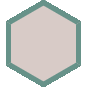
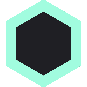
Add files via upload

diff --git a/index.html b/index.html
@@ -8,6 +8,8 @@
     <meta name="author" content="Keith Taylor">
     <link rel="canonical" href="https://lanatheprotogen.github.io/"/>
     <link rel="icon" href="./static/assets/LanaIcon.png"/>
+    <link rel="preconnect" href="https://fonts.gstatic.com">
+    <link href="https://fonts.googleapis.com/css2?family=VT323&display=swap" rel="stylesheet">
     
     <title>Project {'Lana'}</title>
     <!-- Bootstrap core CSS // REQUIRED // -->
@@ -20,7 +22,7 @@
     
 <div class="container-fluid">
   <div class="row">
-    <nav id="sidebarMenu" class="col-md-auto col-lg-auto d-md-block sidebar collapse" style="background-color: #071e22;">
+    <nav id="sidebarMenu" class="col-md-auto col-lg-auto d-md-block sidebar collapse" style="background-color: #1F1F24;">
       <div class="position-sticky pt-3">
         <h6 class="sidebar-heading d-flex justify-content-between align-items-center px-1 mt-2 mb-1 text-muted">
           <span>Navigation</span>
@@ -101,14 +103,14 @@
   </div>
 </div>
 
-<section class="py-5 px-5 text-center container-fluid" style="background: linear-gradient(0.65turn, #071e22, #1d7874, #678289);">
+<section class="py-5 px-5 text-center container-fluid" style="background: linear-gradient(0.65turn, #D8CBC7, #A1FCDF, #607B7D);">
   <div class="row py-lg-5">
     <div class="col-1 col-md-3 col-lg-1">
       <!-- I don't know why, but i need to do this terribleness for the page to work correctly >w<-->
     </div>
     <div class="col-lg-6 col-md-8 mx-auto">
-      <h1 class="fw-light" style="color:#f7f9f9;">Project {'Lana'}</h1>
-      <p class="lead" style="color: #d8cbc7;">Welcome to Project Lana's homepage.</p>
+      <h1 class="fw-light-lg" style="font-family: 'VT323', monospace; font-size: 65px;">Project {'Lana'}<span class="blink">_</span></h1>
+      <p class="lead">Welcome to Project Lana's homepage.</p>
     </div>
   </div>
 </section>
@@ -143,7 +145,7 @@
 
 <div class="hexagon-wrapper">
   <h1 class="text-uppercase fixed-top px-1 mt-2 ms-2 text-muted">
-    <span>Project Lana</span>
+    <span style="color: #607B7D;">Project Lana</span>
   </h1>
   <span class="hexagon"></span>
 </div>

diff --git a/static/css/PROJECT_LANA.css b/static/css/PROJECT_LANA.css
@@ -19,7 +19,7 @@ body {
   bottom: 0;
   left: 0;
   z-index: 1;
-  box-shadow: inset -3px 0#1d7874;
+  box-shadow: inset -3px 0#607B7D;
 }
 
 @media (max-width: 767.98px) {
@@ -44,11 +44,11 @@ body {
 
 .sidebar .nav-link .feather {
   margin-right: 4px;
-  color: #d8cbb7;
+  color: #D8CBC7;
 }
 
 .sidebar .nav-link.active {
-  color:#679289;
+  color:#A1FCDF;
 }
 
 .sidebar .nav-link:hover .feather,
@@ -68,7 +68,7 @@ body {
   position: absolute;
   top: 0;
   left: 0;
-  background-color:#071e22;
+  background-color: #1F1F24;
   display:flex;
   justify-content: center;
   align-items: center;
@@ -80,9 +80,9 @@ body {
   width: 75px; 
   height: 43.30px;
   margin: 21.65px 0;
-  background-color:#d8cbc7;
-  border-left: solid 5px#679289;
-  border-right: solid 5px#679289;
+  background-color: #1F1F24;
+  border-left: solid 5px #A1FCDF;
+  border-right: solid 5px #A1FCDF; 
   animation: hexagon 3s infinite ease;
 }
 
@@ -102,14 +102,14 @@ body {
 
 .hexagon:before {
   top: -26.5165px;
-  border-top: solid 7.0711px#679289;
-  border-right: solid 7.0711px#679289;
+  border-top: solid 7.0711px #A1FCDF;
+  border-right: solid 7.0711px #A1FCDF;
 }
 
 .hexagon:after {
   bottom: -26.5165px;
-  border-bottom: solid 7.0711px#679289;
-  border-left: solid 7.0711px#679289;
+  border-bottom: solid 7.0711px #A1FCDF;
+  border-left: solid 7.0711px #A1FCDF;
 }
 
 @keyframes hexagon {
@@ -132,4 +132,31 @@ body {
   100% {
     transform: rotate(360deg);
   }
+}
+
+.blink {
+  animation: blink 1s infinite;
+}
+
+@keyframes blink {
+  0% {
+    opacity: 100;
+  }
+  
+  25% {
+    opacity: 100;
+  }
+  
+  50% {
+    opacity: 50;
+  }
+  
+  75% {
+    opacity: 0;
+  }
+  
+  100% {
+    opacity: 0;
+  }
+}
 }

diff --git a/about.html b/about.html
@@ -101,7 +101,7 @@
   </div>
 </div>
 
-<section class="py-5 px-5 text-center container-fluid vh-100" style="background: linear-gradient(0.65turn, #071e22, #1d7874, #678289);">
+<section class="py-5 px-5 text-center container-fluid vh-100" style="background: linear-gradient(0.65turn, #D8CBC7, #A1FCDF, #607B7D);">
   <div class="row py-lg-5">
     <div class="col-1 col-md-3 col-lg-1">
       <!-- I don't know why, but i need to do this terribleness for the page to work correctly >w<-->
@@ -123,7 +123,7 @@
 
 <div class="hexagon-wrapper">
   <h1 class="text-uppercase fixed-top px-1 mt-2 ms-2 text-muted">
-    <span>Project Lana</span>
+    <span style="color: #607B7D;">Project Lana</span>
   </h1>
   <span class="hexagon"></span>
 </div>
